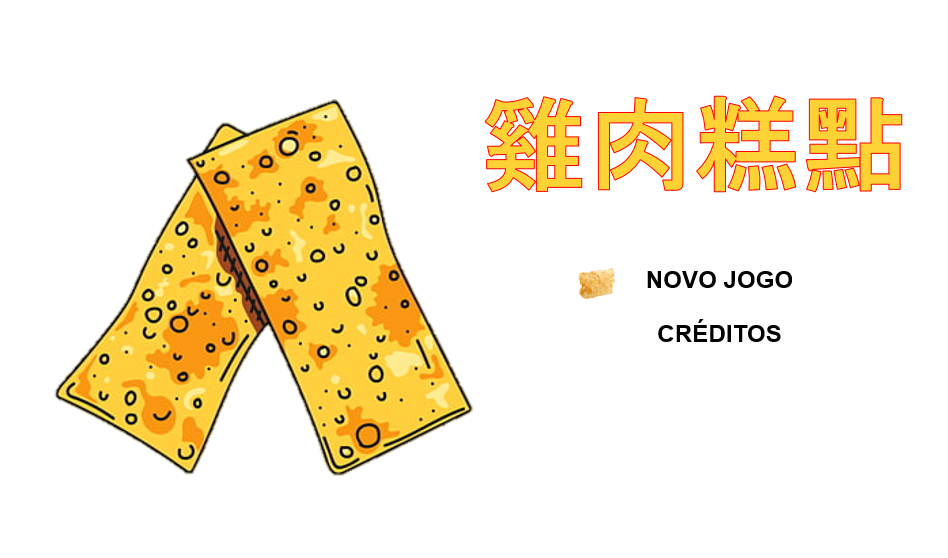
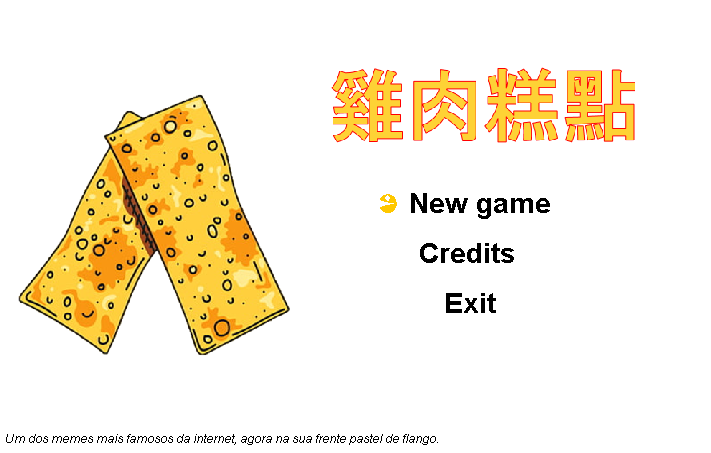
flango_v1.1

diff --git a/src/main/Game.java b/src/main/Game.java
@@ -62,7 +62,7 @@ public class Game extends Canvas implements Runnable, KeyListener{
 	public final int maxBorder=470;
 	public final int minBorder=50;
 	
-	public static String GameState = "Credits";
+	public static String GameState = "Menu";
 	
 	public final int mouthOrigin =-10;
 	public final int mouthY = 280;
